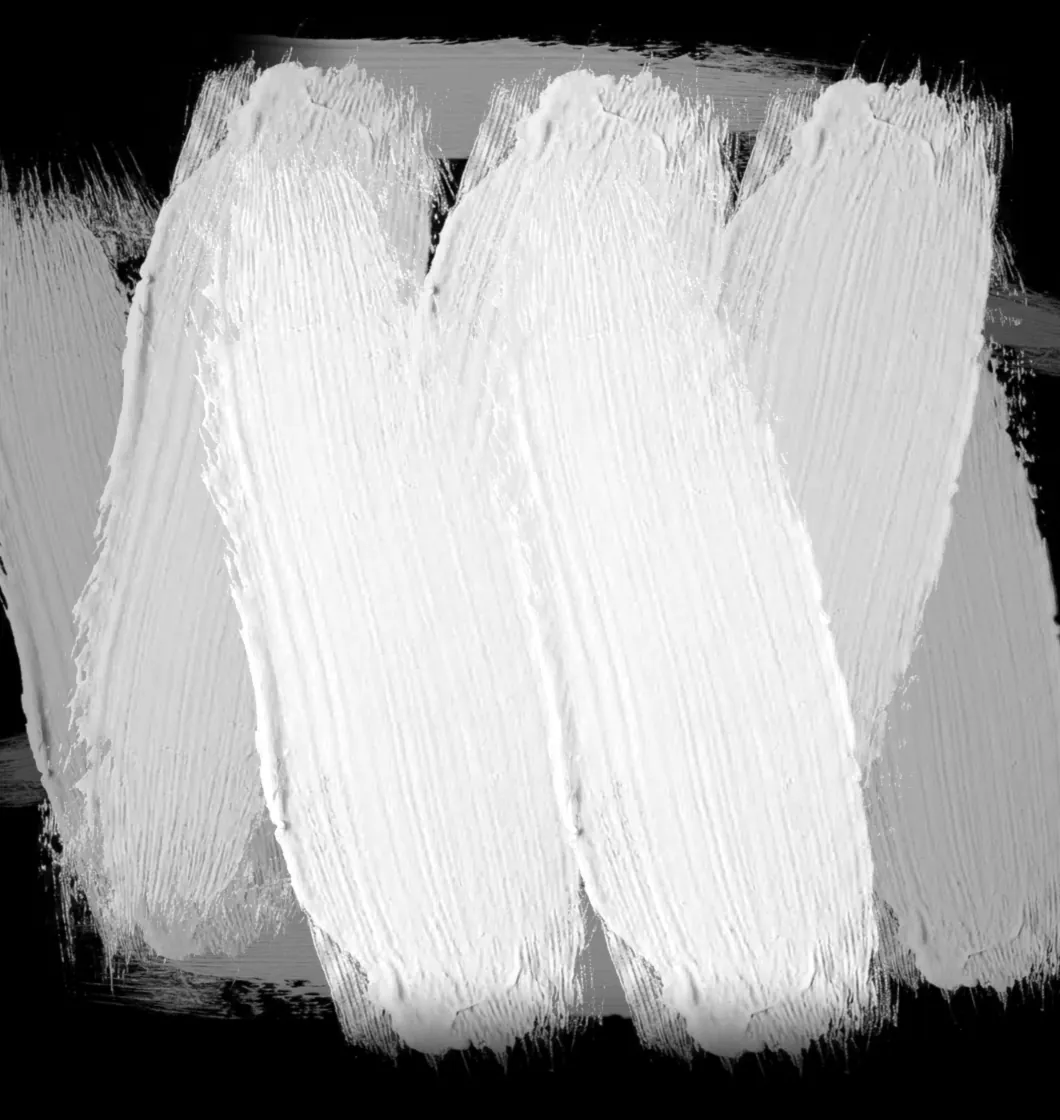
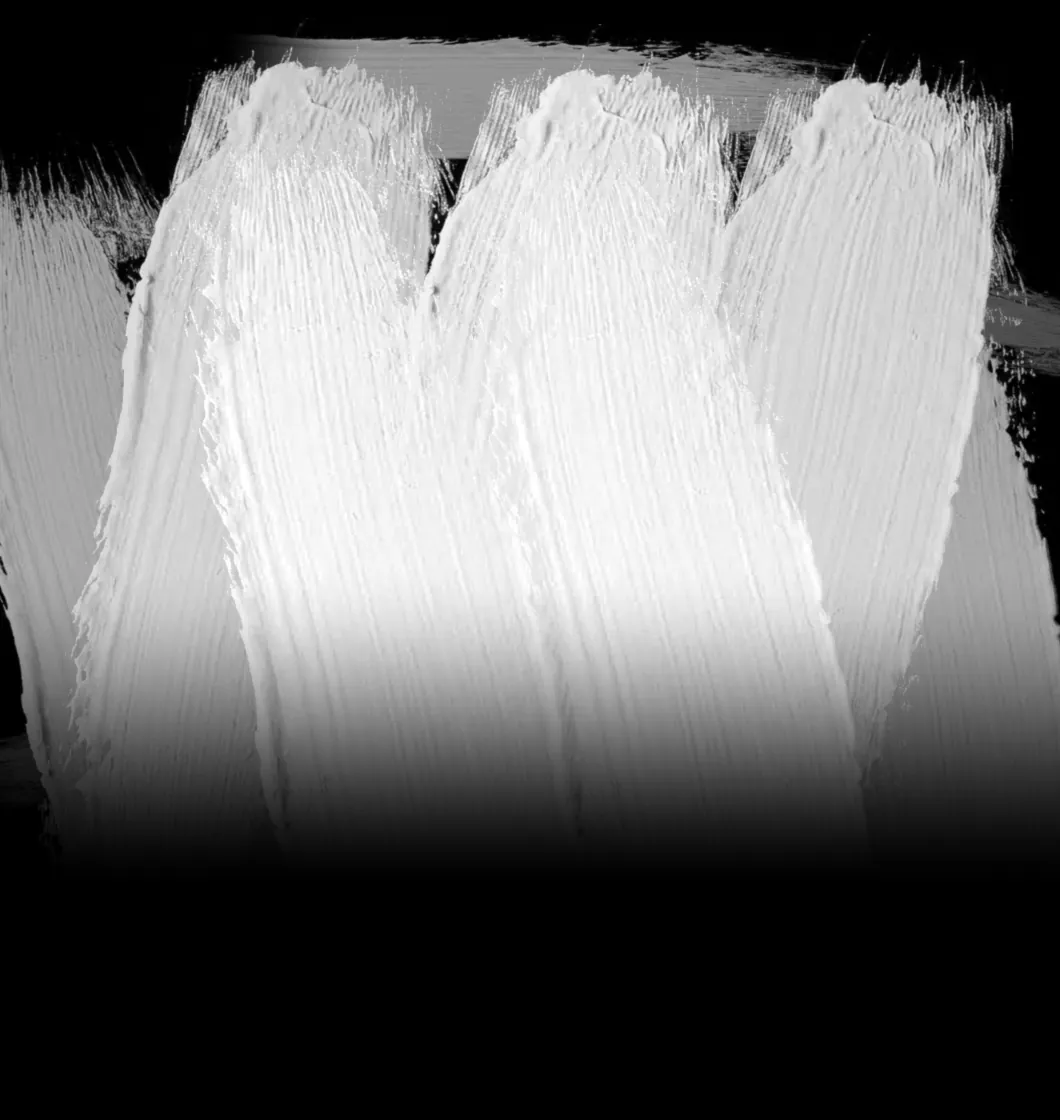
Stop the panel's paint printing through the dissolving portrait
The portrait in front of the panel does not end, it dissolves:
`.home-portrait-img` fades from 68% of its height to transparent at 97%. The
panel behind it stayed fully opaque until 71% and did not vanish until 84%, so
across a sixth of the portrait's height the paint showed THROUGH the figure -
and not as a wash, as the panel's own bristle texture printed over the lapels
and shoulder in olive.

The fade is now computed from that line rather than chosen for looks. The
generator mirrors the four values it needs - the pseudo-element's width and
top, the portrait box's aspect ratio, and the 68% mask line - works out where
its baked-in fade lands on the portrait, and finishes the paint a clear 2%
above the point where the figure starts letting light through. It prints the
band it derived on every run:

  paint fades 39% -> 66% of the portrait box; the figure starts dissolving
  at 68%

The composition survives the shorter panel: the paint frames the head and
shoulders and runs out at the chest, which is where the figure runs out too.
Spreading the dissolve over 30% of the panel keeps it from reading as a cut.

Both files now say the coupling out loud, because the numbers are duplicated
across a stylesheet and a Python script and nothing else would catch a drift.

Claude-Session: https://claude.ai/code/session_013c1x2jLqfGwAmCLhTbPYGV

diff --git a/frontend/styles.css b/frontend/styles.css
@@ -2362,14 +2362,24 @@ body:has(main > #ai.active) .chat-widget:not(.is-visible) {
      both edges - so a panel at the box's full width clears the figure by a
      margin that reads as a rectangle with a man in the middle of it. At 88%
      the paint ends just outside the shoulders, which is where a flat behind a
-     sitter ends. */
+     sitter ends.
+
+     ── These two are mirrored in the generator ──
+     `width` and `top` below, plus this box's own aspect ratio, are restated as
+     constants in `scripts/generate_brush_backdrop.py`, which needs them to
+     work out where the panel's baked-in bottom fade lands on the portrait.
+     Change either here and change it there, then re-run the script: it prints
+     the band it computed, and the fade has to finish ABOVE the line where
+     `.home-portrait-img` starts dissolving. It is not a matter of taste. The
+     figure in front of the panel goes progressively transparent from 68% of
+     its height down, so any paint still opaque under it shows THROUGH the
+     jacket - not as a wash, but as the panel's own bristle texture printed
+     across the lapels in olive. */
   width: 88%;
   aspect-ratio: 1060 / 1120;
 
-  /* Rises above the head and runs behind the chest. The panel's own bottom is
-     faded in the file, so it dissolves into the page at roughly the height
-     the portrait's `mask-image` dissolves the torso - the two edges cancel
-     instead of drawing two separate lines across the view. */
+  /* Rises above the head, and stops at the chest rather than running to the
+     bottom of the figure - see the fade note above for why it has to. */
   top: -6%;
 
   /* Centred on the FIGURE, not on the box. The cutout is not symmetrical - he

diff --git a/scripts/generate_brush_backdrop.py b/scripts/generate_brush_backdrop.py
@@ -30,7 +30,6 @@ Pillow is the only dependency. Nothing here needs the network.
 """
 
 import argparse
-import math
 from pathlib import Path
 from typing import NamedTuple
 
@@ -70,15 +69,45 @@ CUT_TAPER = 0.22
 # Encoder quality for the output. See the note in `main`.
 WEBP_QUALITY = 80
 
-# The bottom of the panel dissolves rather than ending, for the same reason the
-# portrait's own `mask-image` dissolves: the figure runs out of the frame, and
-# a hard horizontal edge behind him would draw the cut he is being faded to
-# hide. Fractions of canvas height - opaque above the first, gone by the second.
-# Late, because the panel has to stay behind the chest: faded from two thirds
-# up it left the jacket standing on nothing while the head had a wall behind
-# it, which is a stranger thing to look at than either edge would have been.
-FADE_START = 0.86
-FADE_END = 1.0
+# ── Where the panel has to stop, and why it is computed rather than chosen ──
+#
+# The portrait in front of the panel does not end, it DISSOLVES:
+# `.home-portrait-img` carries `mask-image: linear-gradient(to bottom, #000
+# 68%, transparent 97%)`, so from 68% of its height down the figure is
+# progressively transparent. Anything painted behind it in that band shows
+# THROUGH the jacket - and what shows through is not a wash, it is the panel's
+# own bristle texture printed across the lapels as an olive smudge.
+#
+# So the panel's own fade is not a free aesthetic choice. It has to be finished
+# before the figure starts letting light through, and the four mirrors below
+# are what let that be computed instead of guessed. They restate values that
+# live in styles.css: if any of them changes there, change it here too - the
+# script prints the resulting band on every run so a mismatch is visible.
+PANEL_WIDTH_OF_BOX = 0.88  # .home-portrait::before  width
+PANEL_TOP_OF_BOX = -0.06  # .home-portrait::before  top
+PORTRAIT_BOX_ASPECT = 786 / 760  # .home-portrait     box height / width
+PORTRAIT_FADE_START = 0.68  # .home-portrait-img mask-image
+
+# Margin between the last of the paint and the first of the figure's
+# transparency, as a fraction of the portrait box. Small but not zero: landing
+# the two lines on the same pixel row makes them one visible edge again.
+FADE_CLEARANCE = 0.02
+
+# How much of the panel's height the dissolve is spread over. Long, because the
+# paint now has to be gone well above the bottom of the panel and a short ramp
+# there reads as the paint having been cut off rather than having run out.
+FADE_SPAN = 0.30
+
+
+def _fade_bounds() -> tuple[float, float]:
+    """`(start, end)` of the bottom fade, as fractions of the canvas height."""
+    panel_height_of_box = PANEL_WIDTH_OF_BOX * (CANVAS_H / CANVAS_W) / PORTRAIT_BOX_ASPECT
+    gone_at_box = PORTRAIT_FADE_START - FADE_CLEARANCE
+    end = (gone_at_box - PANEL_TOP_OF_BOX) / panel_height_of_box
+    return end - FADE_SPAN, end
+
+
+FADE_START, FADE_END = _fade_bounds()
 
 
 class Stroke(NamedTuple):
@@ -277,7 +306,18 @@ def main() -> int:
 
     kb = args.out.stat().st_size / 1024
     print(f"{args.out.relative_to(ROOT_DIR)}  {panel.width}x{panel.height}  {kb:.1f} KB")
-    print(f"  {len(STROKES)} strokes from {SOURCE_IMAGE_PATH.name} ({math.floor(FADE_START * 100)}% fade start)")
+    # The band, restated where it can be checked against the CSS: the fade has
+    # to finish above `PORTRAIT_FADE_START` or the paint prints on the jacket.
+    panel_height_of_box = PANEL_WIDTH_OF_BOX * (CANVAS_H / CANVAS_W) / PORTRAIT_BOX_ASPECT
+
+    def to_box(local: float) -> float:
+        return PANEL_TOP_OF_BOX + local * panel_height_of_box
+
+    print(f"  {len(STROKES)} strokes from {SOURCE_IMAGE_PATH.name}")
+    print(
+        f"  paint fades {to_box(FADE_START):.0%} -> {to_box(FADE_END):.0%} of the portrait box; "
+        f"the figure starts dissolving at {PORTRAIT_FADE_START:.0%}"
+    )
     return 0
 
 

diff --git a/docs/FRONTEND.md b/docs/FRONTEND.md
@@ -377,6 +377,25 @@ are fractions of the canvas, so the panel re-renders at any resolution and the
 three `.home-portrait` width caps inherit the geometry with nothing to re-tune.
 The CSS decides only where the panel sits and how big it is.
 
+**The one coupling to know about** is the bottom fade. The portrait in front of
+the panel does not end, it dissolves - `.home-portrait-img` carries
+`mask-image: linear-gradient(to bottom, #000 68%, transparent 97%)` - so from
+68% of its height down the figure is progressively transparent, and any paint
+still opaque behind it shows *through* the jacket. Not as a wash: as the
+panel's own bristle texture printed across the lapels in olive. The panel's
+fade is therefore computed rather than chosen. The script mirrors the four CSS
+values it needs (`::before` width and top, the box's aspect ratio, and that 68%
+line), derives a fade that finishes just above it, and prints the band on every
+run:
+
+```
+paint fades 39% -> 66% of the portrait box; the figure starts dissolving at 68%
+```
+
+Change the panel's `width` or `top` in `styles.css`, or the portrait's own mask
+line, and the mirrors in the script have to move with them - re-run it and read
+that line back.
+
 Two encoding notes, because both look like mistakes and are not. The output is
 **lossy** WebP: bristle texture is high-frequency noise, so the equivalent
 greyscale PNG is 485 KB against 74 KB here, on a layer that paints under the

diff --git a/AGENTS.md b/AGENTS.md
@@ -64,7 +64,7 @@ these files the number here has to move with it.
 
 | File | Lines | ~Tokens | How to navigate instead |
 | :--- | ---: | ---: | :--- |
-| `frontend/styles.css` | 11,079 | ~79,500 | `grep -n '#region' frontend/styles.css` returns a 27-entry map with live line numbers (~500 tokens). Then `sed -n 'START,ENDp'`. |
+| `frontend/styles.css` | 11,089 | ~80,000 | `grep -n '#region' frontend/styles.css` returns a 27-entry map with live line numbers (~500 tokens). Then `sed -n 'START,ENDp'`. |
 | `package-lock.json` | 3,453 | ~32,500 | Never read. `package.json` lists every direct dep in 25 lines. |
 | `frontend/index.html` | 2,062 | ~32,000 | `grep -n '<section id=' frontend/index.html` for the 8-section map. |
 | `frontend/js/chat.js` | 1,851 | ~19,000 | One large `initChat()` from line 57; almost nothing is top-level. Map it with `grep -nE '^\s{2,6}(async )?function \w+' frontend/js/chat.js` (37 hits). |
